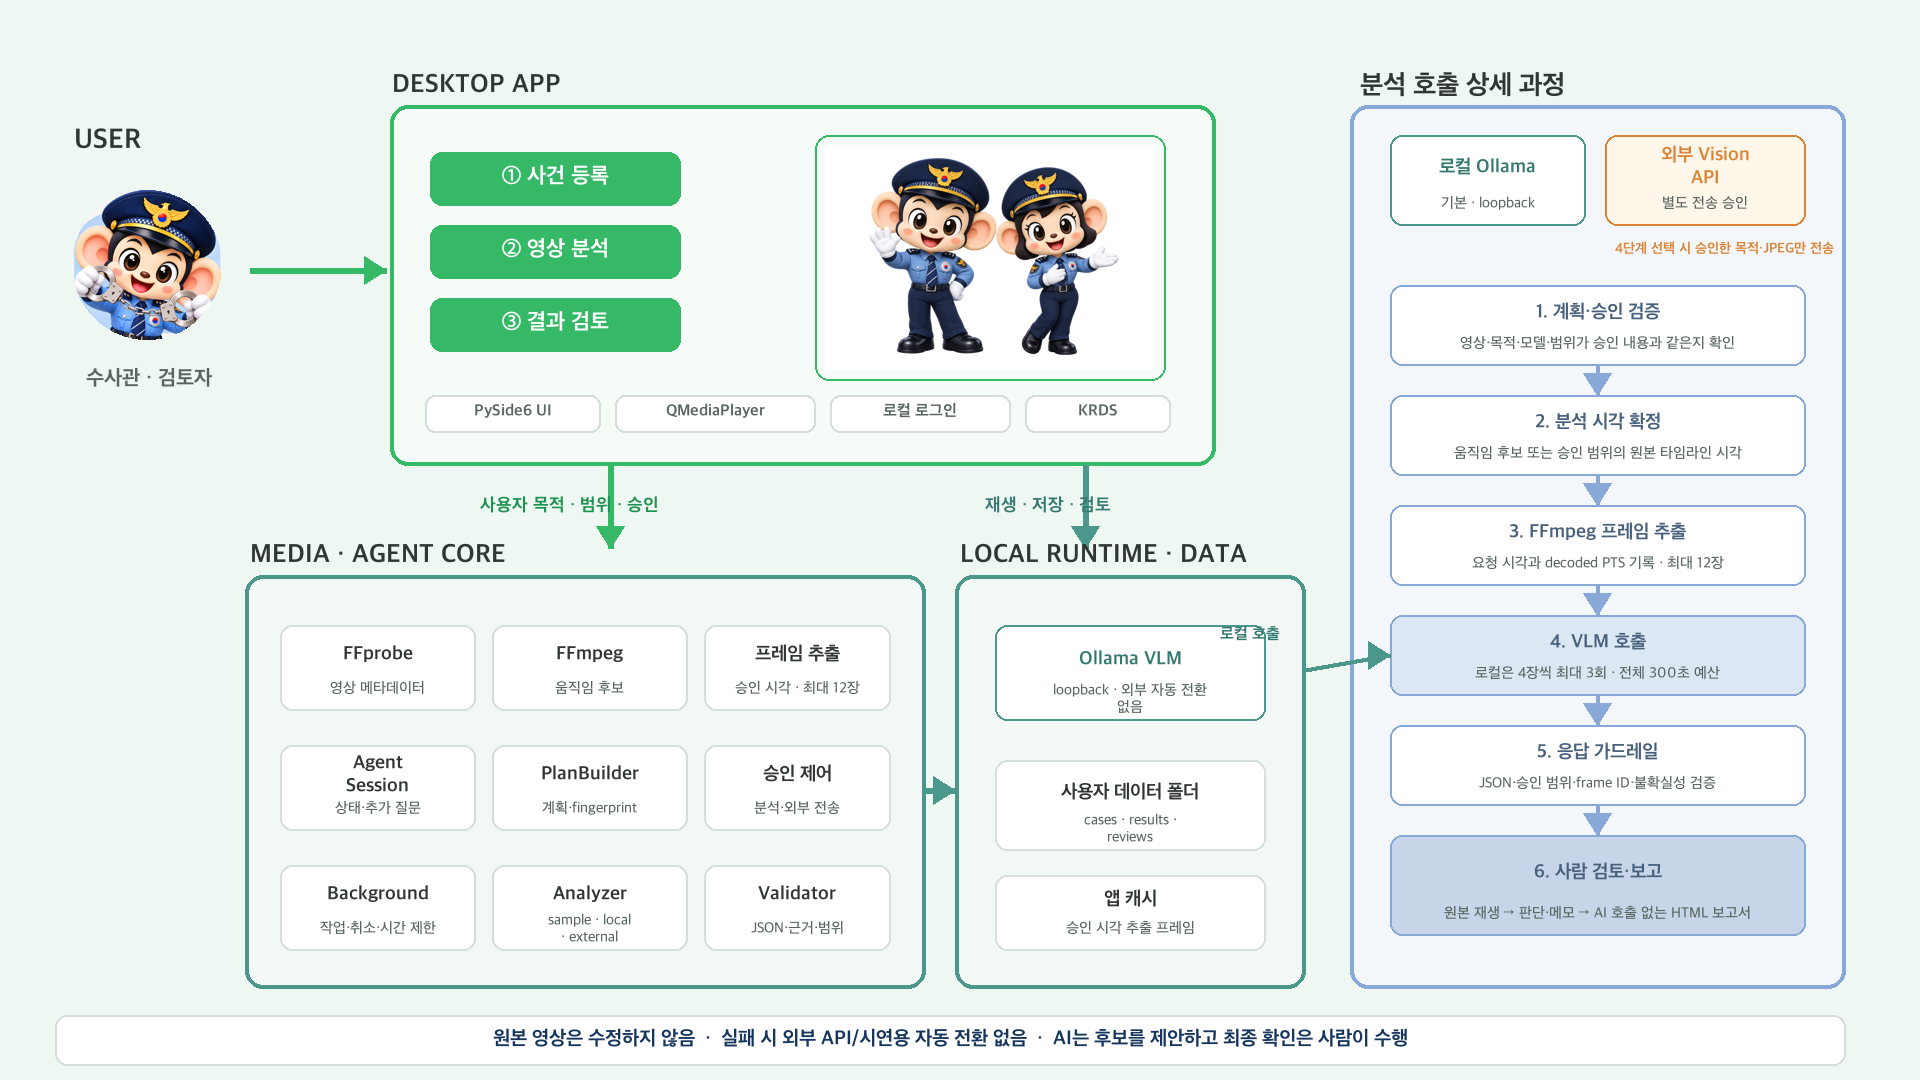
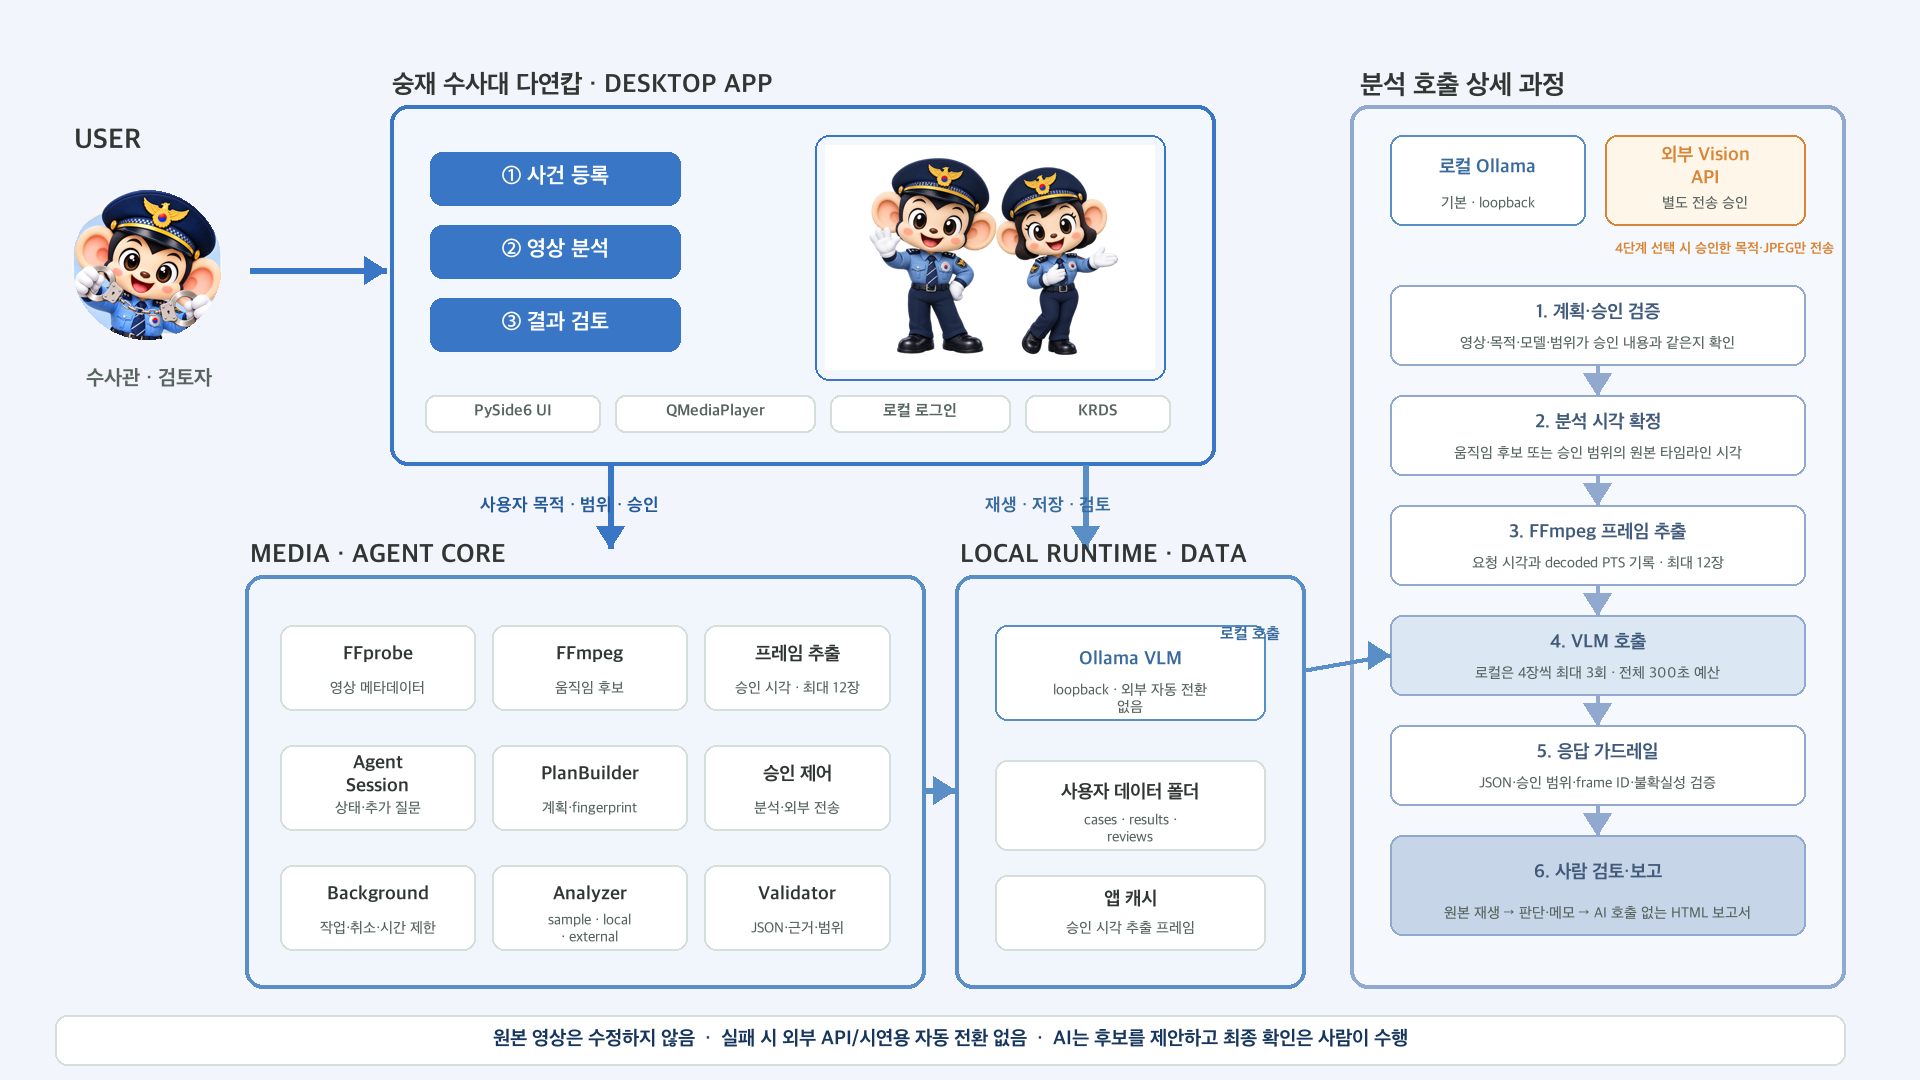
docs: apply Dayeoncop title and blue architecture

diff --git a/site/index.html b/site/index.html
@@ -3,8 +3,8 @@
   <head>
     <meta charset="utf-8">
     <meta name="viewport" content="width=device-width, initial-scale=1">
-    <meta name="description" content="숭재수사대 다연캅 — CCTV 영상에서 중요한 장면을 찾고 기록과 보고를 돕는 Mac 앱">
-    <title>숭재수사대 다연캅</title>
+    <meta name="description" content="숭재 수사대 다연캅 — CCTV 영상에서 중요한 장면을 찾고 기록과 보고를 돕는 Mac 앱">
+    <title>숭재 수사대 다연캅</title>
     <link rel="stylesheet" href="./styles.css">
     <script defer src="./config.js"></script>
     <script defer src="./app.js"></script>
@@ -16,10 +16,10 @@
           <img class="hero-background" src="./assets/hero-background.png" alt="">
         </div>
         <div class="hero-content">
-          <p class="app-name">숭재수사대 다연캅</p>
+          <p class="app-name">숭재 수사대 다연캅</p>
           <p class="eyebrow">수사의 중요한 순간,<span class="eyebrow-marks" aria-hidden="true">✦</span></p>
           <h1 id="hero-title">
-            <span>숭재수사대</span>
+            <span>숭재 수사대</span>
             <span><em>다연캅</em>과 함께</span>
             <span>찾으세요!</span>
           </h1>

diff --git a/src/video_agent/ui/startup.py b/src/video_agent/ui/startup.py
@@ -30,7 +30,7 @@ class StartupScreen(QDialog):
         self._duration_ms = max(0, min(int(duration_ms), 10_000))
         self._started = False
         self.setObjectName("startupDialog")
-        self.setWindowTitle("CCTV 영상수사 지원 Agent 시작")
+        self.setWindowTitle("숭재 수사대 다연캅 시작")
         self.setWindowFlag(Qt.WindowType.FramelessWindowHint, True)
         self.setModal(True)
         self.setFixedSize(620, 430)
@@ -55,7 +55,7 @@ class StartupScreen(QDialog):
         organization = QLabel("대한민국 경찰청")
         organization.setObjectName("startupOrganization")
         organization.setAlignment(Qt.AlignmentFlag.AlignCenter)
-        title = QLabel("CCTV 영상수사 지원 Agent")
+        title = QLabel("숭재 수사대 다연캅")
         title.setObjectName("startupTitle")
         title.setAlignment(Qt.AlignmentFlag.AlignCenter)
 
@@ -137,7 +137,7 @@ class LocalLoginDialog(QDialog):
         brand_text = QVBoxLayout()
         organization = QLabel("대한민국 경찰청")
         organization.setObjectName("loginOrganization")
-        app_name = QLabel("CCTV 영상수사 지원 Agent")
+        app_name = QLabel("숭재 수사대 다연캅")
         app_name.setObjectName("loginAppName")
         brand_text.addWidget(organization)
         brand_text.addWidget(app_name)

diff --git a/src/video_agent/ui/main_window.py b/src/video_agent/ui/main_window.py
@@ -250,7 +250,7 @@ class MainWindow(QMainWindow):
     UI_ZOOM_MAX = 150
     UI_ZOOM_STEP = 10
     RESULT_CONTEXT_PREROLL_SECONDS = 1.0
-    APP_TITLE = "CCTV 영상수사 지원 Agent"
+    APP_TITLE = "숭재 수사대 다연캅"
     ORGANIZATION = "대한민국 경찰청"
     STEP_TITLES = ("사건 등록", "영상 분석", "결과 검토")
     # One short line per detection profile; the muted note says it is not an AI judgement.

diff --git a/src/video_agent/__main__.py b/src/video_agent/__main__.py
@@ -49,7 +49,7 @@ class _ApplicationFlow:
 def main() -> int:
     app = QApplication(sys.argv)
     app.setQuitOnLastWindowClosed(False)
-    app.setApplicationName("영상 중요 구간 분석 Agent")
+    app.setApplicationName("숭재 수사대 다연캅")
     app.setOrganizationName("AI-Agent-Jeong-Oh")
     flow = _ApplicationFlow(app)
     flow.start()

diff --git a/docs/progress.md b/docs/progress.md
@@ -4,7 +4,7 @@
 
 이 문서는 앞으로 할 일을 정하는 계획서가 아니라, 현재 저장소에 무엇을 어떤 방식으로 구현했고 어디까지 실제로 확인했는지를 설명하는 기록입니다.
 
-가장 최근에는 연두가 분석 뒤 사람이 하는 검토·결과 정리 UI를 추가했습니다. 후보마다 판단·메모·태그·북마크를 기록해 분석 결과와 별도 파일로 저장하고, 저장된 결과를 다시 열면 기록을 복원합니다. 검토가 끝나면 `분석 완료`로 완료 시각을 남기고, 검토 기록으로 만든 6개 영역의 결과 요약 초안을 HTML로 내보낼 수 있습니다. 오른쪽 패널은 팀 시연 HTML과 같은 3단계 화면으로 나누고 같은 디자인(경찰청 머리글, 앱 이름 `CCTV 영상수사 지원 Agent`)을 적용했습니다. 한 사건에 여러 CCTV 영상을 등록해 카메라별로 검토하고, 사건 전체 결과 요약을 만들 수 있습니다. 이어서 화면 전체에 KRDS(대한민국 정부 디자인시스템) 기준을 적용하고, 후보가 없을 때 범위 확대를 제안하며, 사건 단서를 읽고 고치기 쉽게 했습니다. 그다음 실제 수사관이 쓰기 쉽도록 화면을 단순화했습니다. 단계마다 지금 할 버튼 하나만 강조하고, 개발 용어와 기호를 쉬운 말과 선 아이콘으로 바꾸고, 목록을 표로 정리하고, 사건 유형별 `우선 확인할 상황`과 쉬운 말의 `분석 방식` 선택, 재생 막대의 후보 구간 표시를 넣었습니다. 자세한 내용은 아래 `2026-10-11 검토·결과 정리 UI`에 정리했습니다.
+가장 최근에는 연두가 분석 뒤 사람이 하는 검토·결과 정리 UI를 추가했습니다. 후보마다 판단·메모·태그·북마크를 기록해 분석 결과와 별도 파일로 저장하고, 저장된 결과를 다시 열면 기록을 복원합니다. 검토가 끝나면 `분석 완료`로 완료 시각을 남기고, 검토 기록으로 만든 6개 영역의 결과 요약 초안을 HTML로 내보낼 수 있습니다. 오른쪽 패널은 팀 시연 HTML과 같은 3단계 화면으로 나누고 같은 디자인(경찰청 머리글, 앱 이름 `숭재 수사대 다연캅`)을 적용했습니다. 한 사건에 여러 CCTV 영상을 등록해 카메라별로 검토하고, 사건 전체 결과 요약을 만들 수 있습니다. 이어서 화면 전체에 KRDS(대한민국 정부 디자인시스템) 기준을 적용하고, 후보가 없을 때 범위 확대를 제안하며, 사건 단서를 읽고 고치기 쉽게 했습니다. 그다음 실제 수사관이 쓰기 쉽도록 화면을 단순화했습니다. 단계마다 지금 할 버튼 하나만 강조하고, 개발 용어와 기호를 쉬운 말과 선 아이콘으로 바꾸고, 목록을 표로 정리하고, 사건 유형별 `우선 확인할 상황`과 쉬운 말의 `분석 방식` 선택, 재생 막대의 후보 구간 표시를 넣었습니다. 자세한 내용은 아래 `2026-10-11 검토·결과 정리 UI`에 정리했습니다.
 
 그 전에는 사건 정보와 사전 단서 계약을 추가했습니다. 사건명·유형·발생 시각 확실성·관리 메모와 영상 식별자·카메라 시각 오차를 `CaseRecord`로 저장하며 원본 경로는 저장하지 않습니다. 단서마다 출처·확실성·분석 사용 여부를 두고 선택된 단서만 계획 fingerprint, 분석 요청, 결과 JSON과 VLM 프롬프트에 포함합니다. 프롬프트 버전은 `candidate-recall-v10-prior-context-separated`이며 사전 정보를 영상 관찰 사실로 가정하거나 그대로 복사하지 않도록 분리했습니다. 이 연결은 자동 테스트와 오프스크린 UI 및 대표 택배 영상의 실제 8B 모델 비교 두 건으로 확인했습니다. 비교 결과와 한계는 아래와 `docs/handoff-seungjae.md`에 기록했습니다.
 

diff --git a/docs/architecture.md b/docs/architecture.md
@@ -1,6 +1,6 @@
 # 아키텍처
 
-![CCTV 영상수사 지원 Agent 시스템 구조도](assets/system-architecture.png)
+![숭재 수사대 다연캅 시스템 구조도](assets/system-architecture.png)
 
 이 구조도는 사용자 화면, Media·Agent Core, 로컬 모델·데이터, 승인된 분석 호출과 사람 검토의 관계를 한 화면에 요약합니다. 원본 영상은 로컬에서 직접 읽으며 외부 Vision API는 별도 전송 승인을 받은 경우에만 사용합니다.
 
